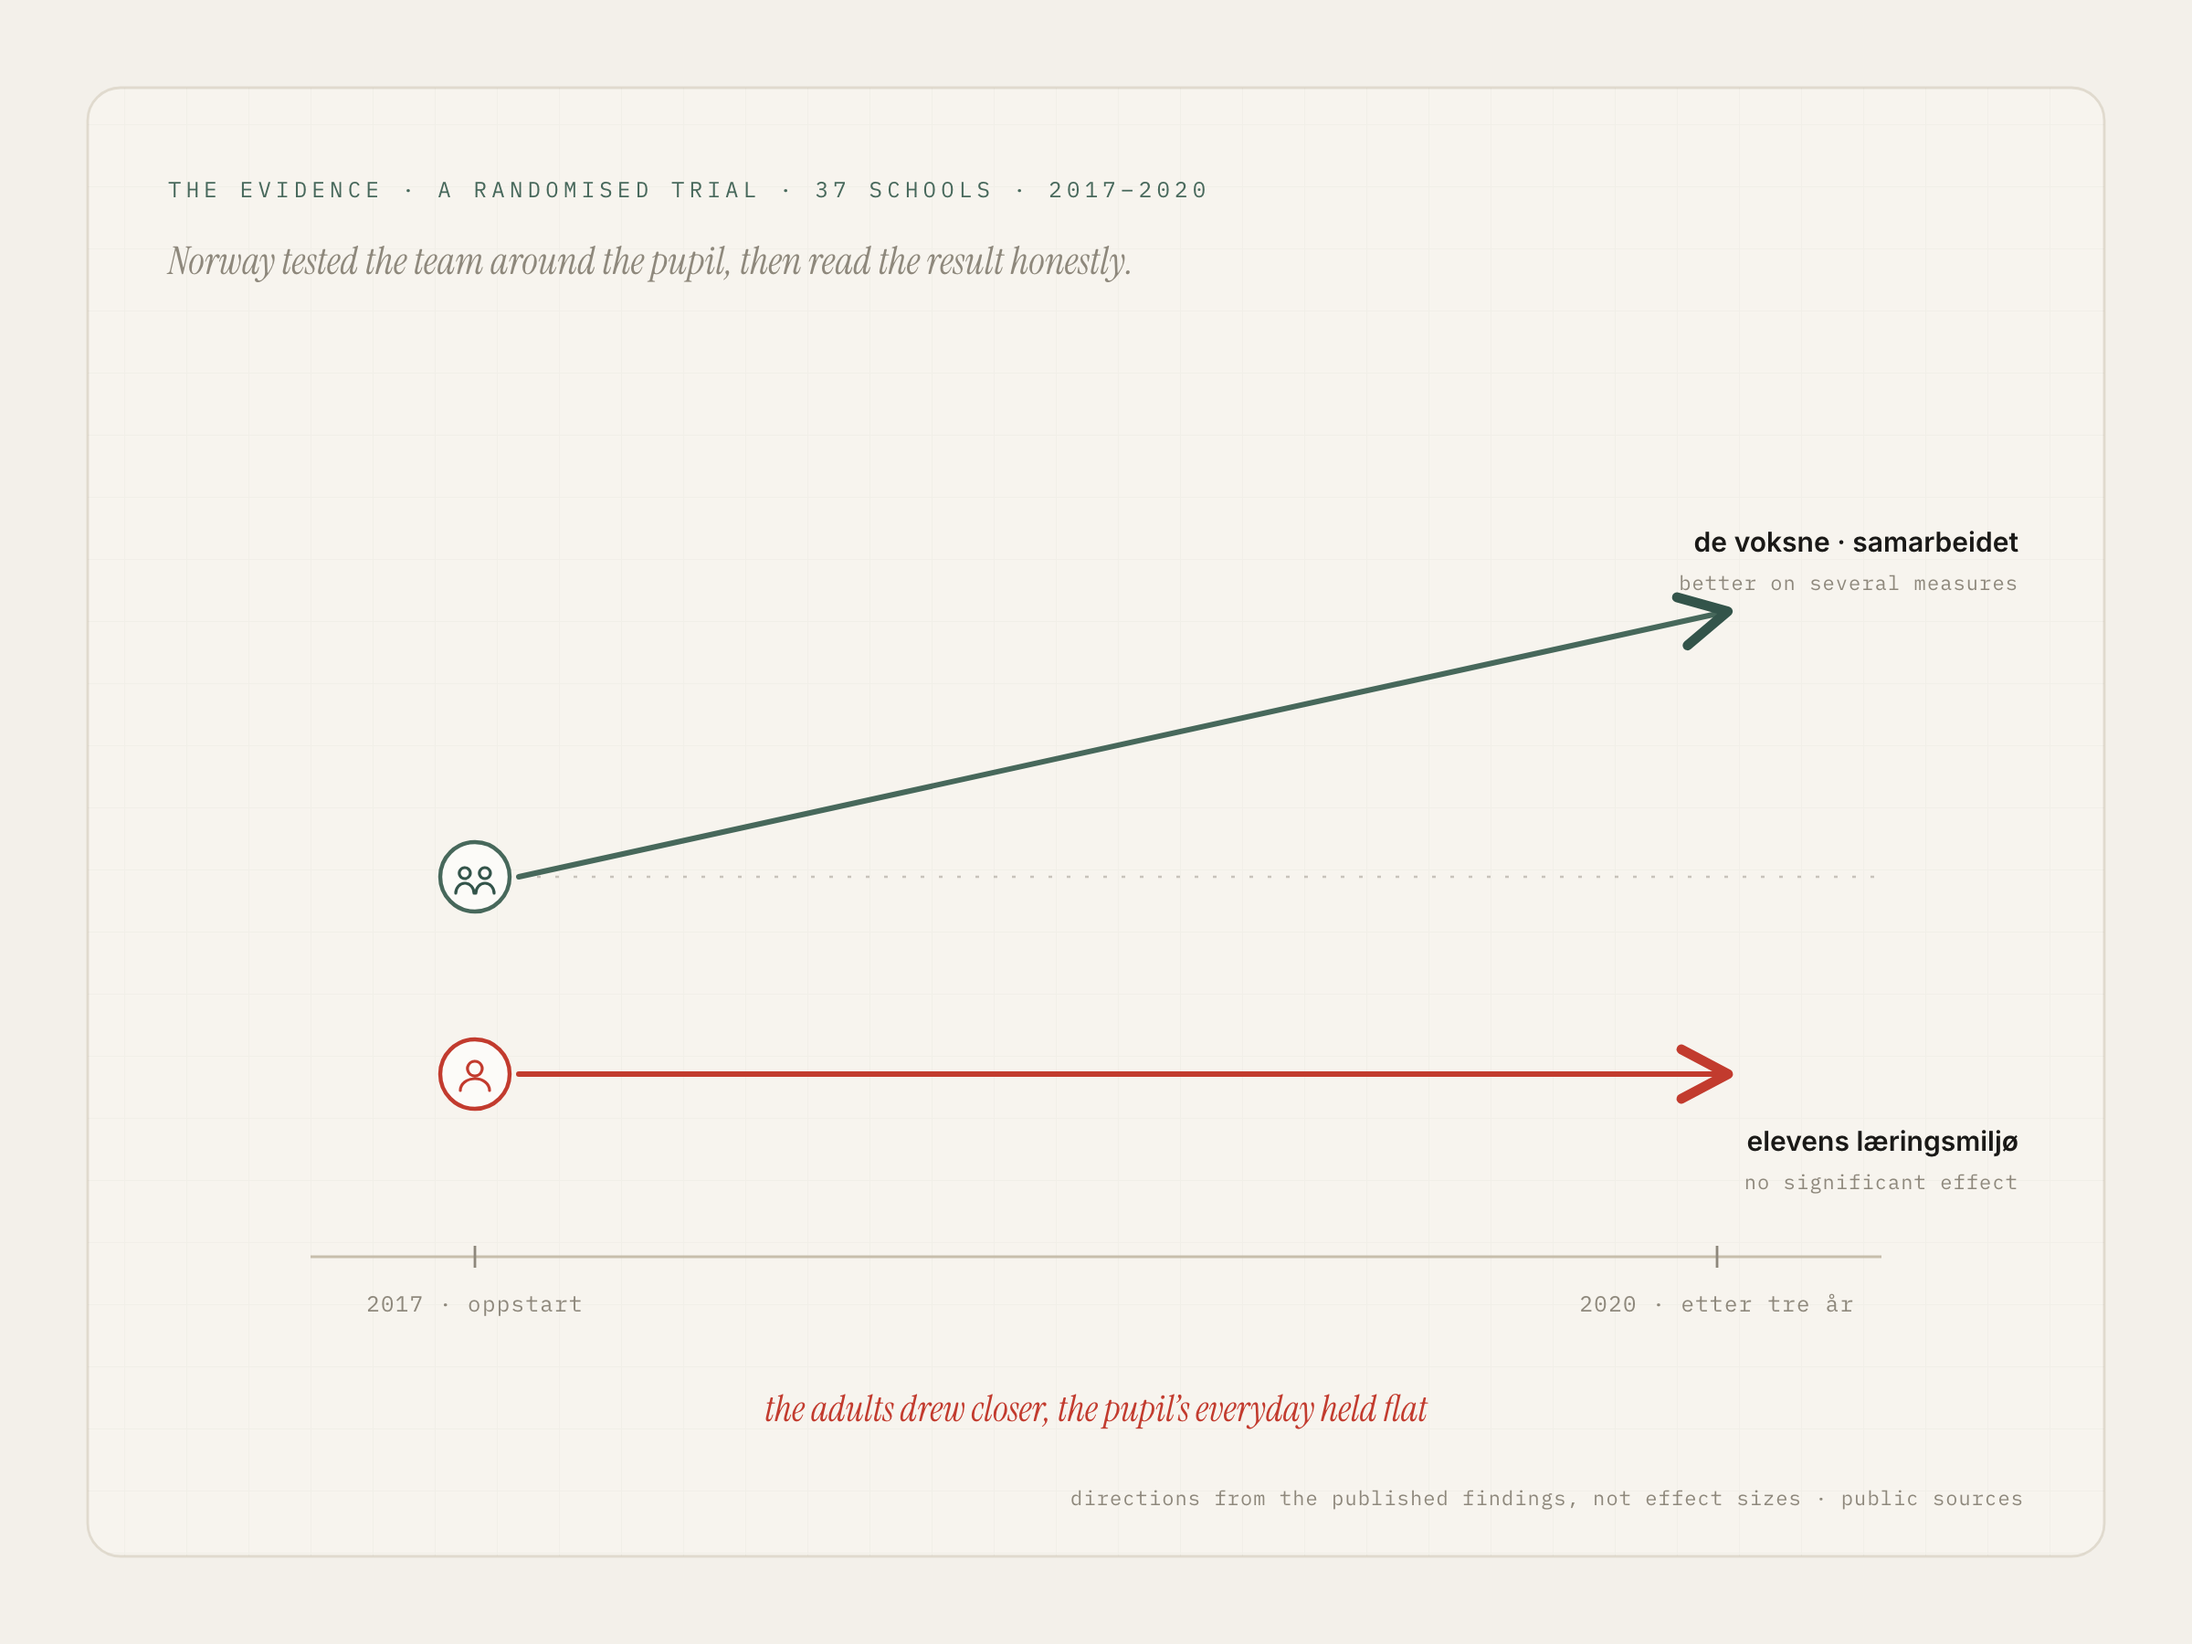
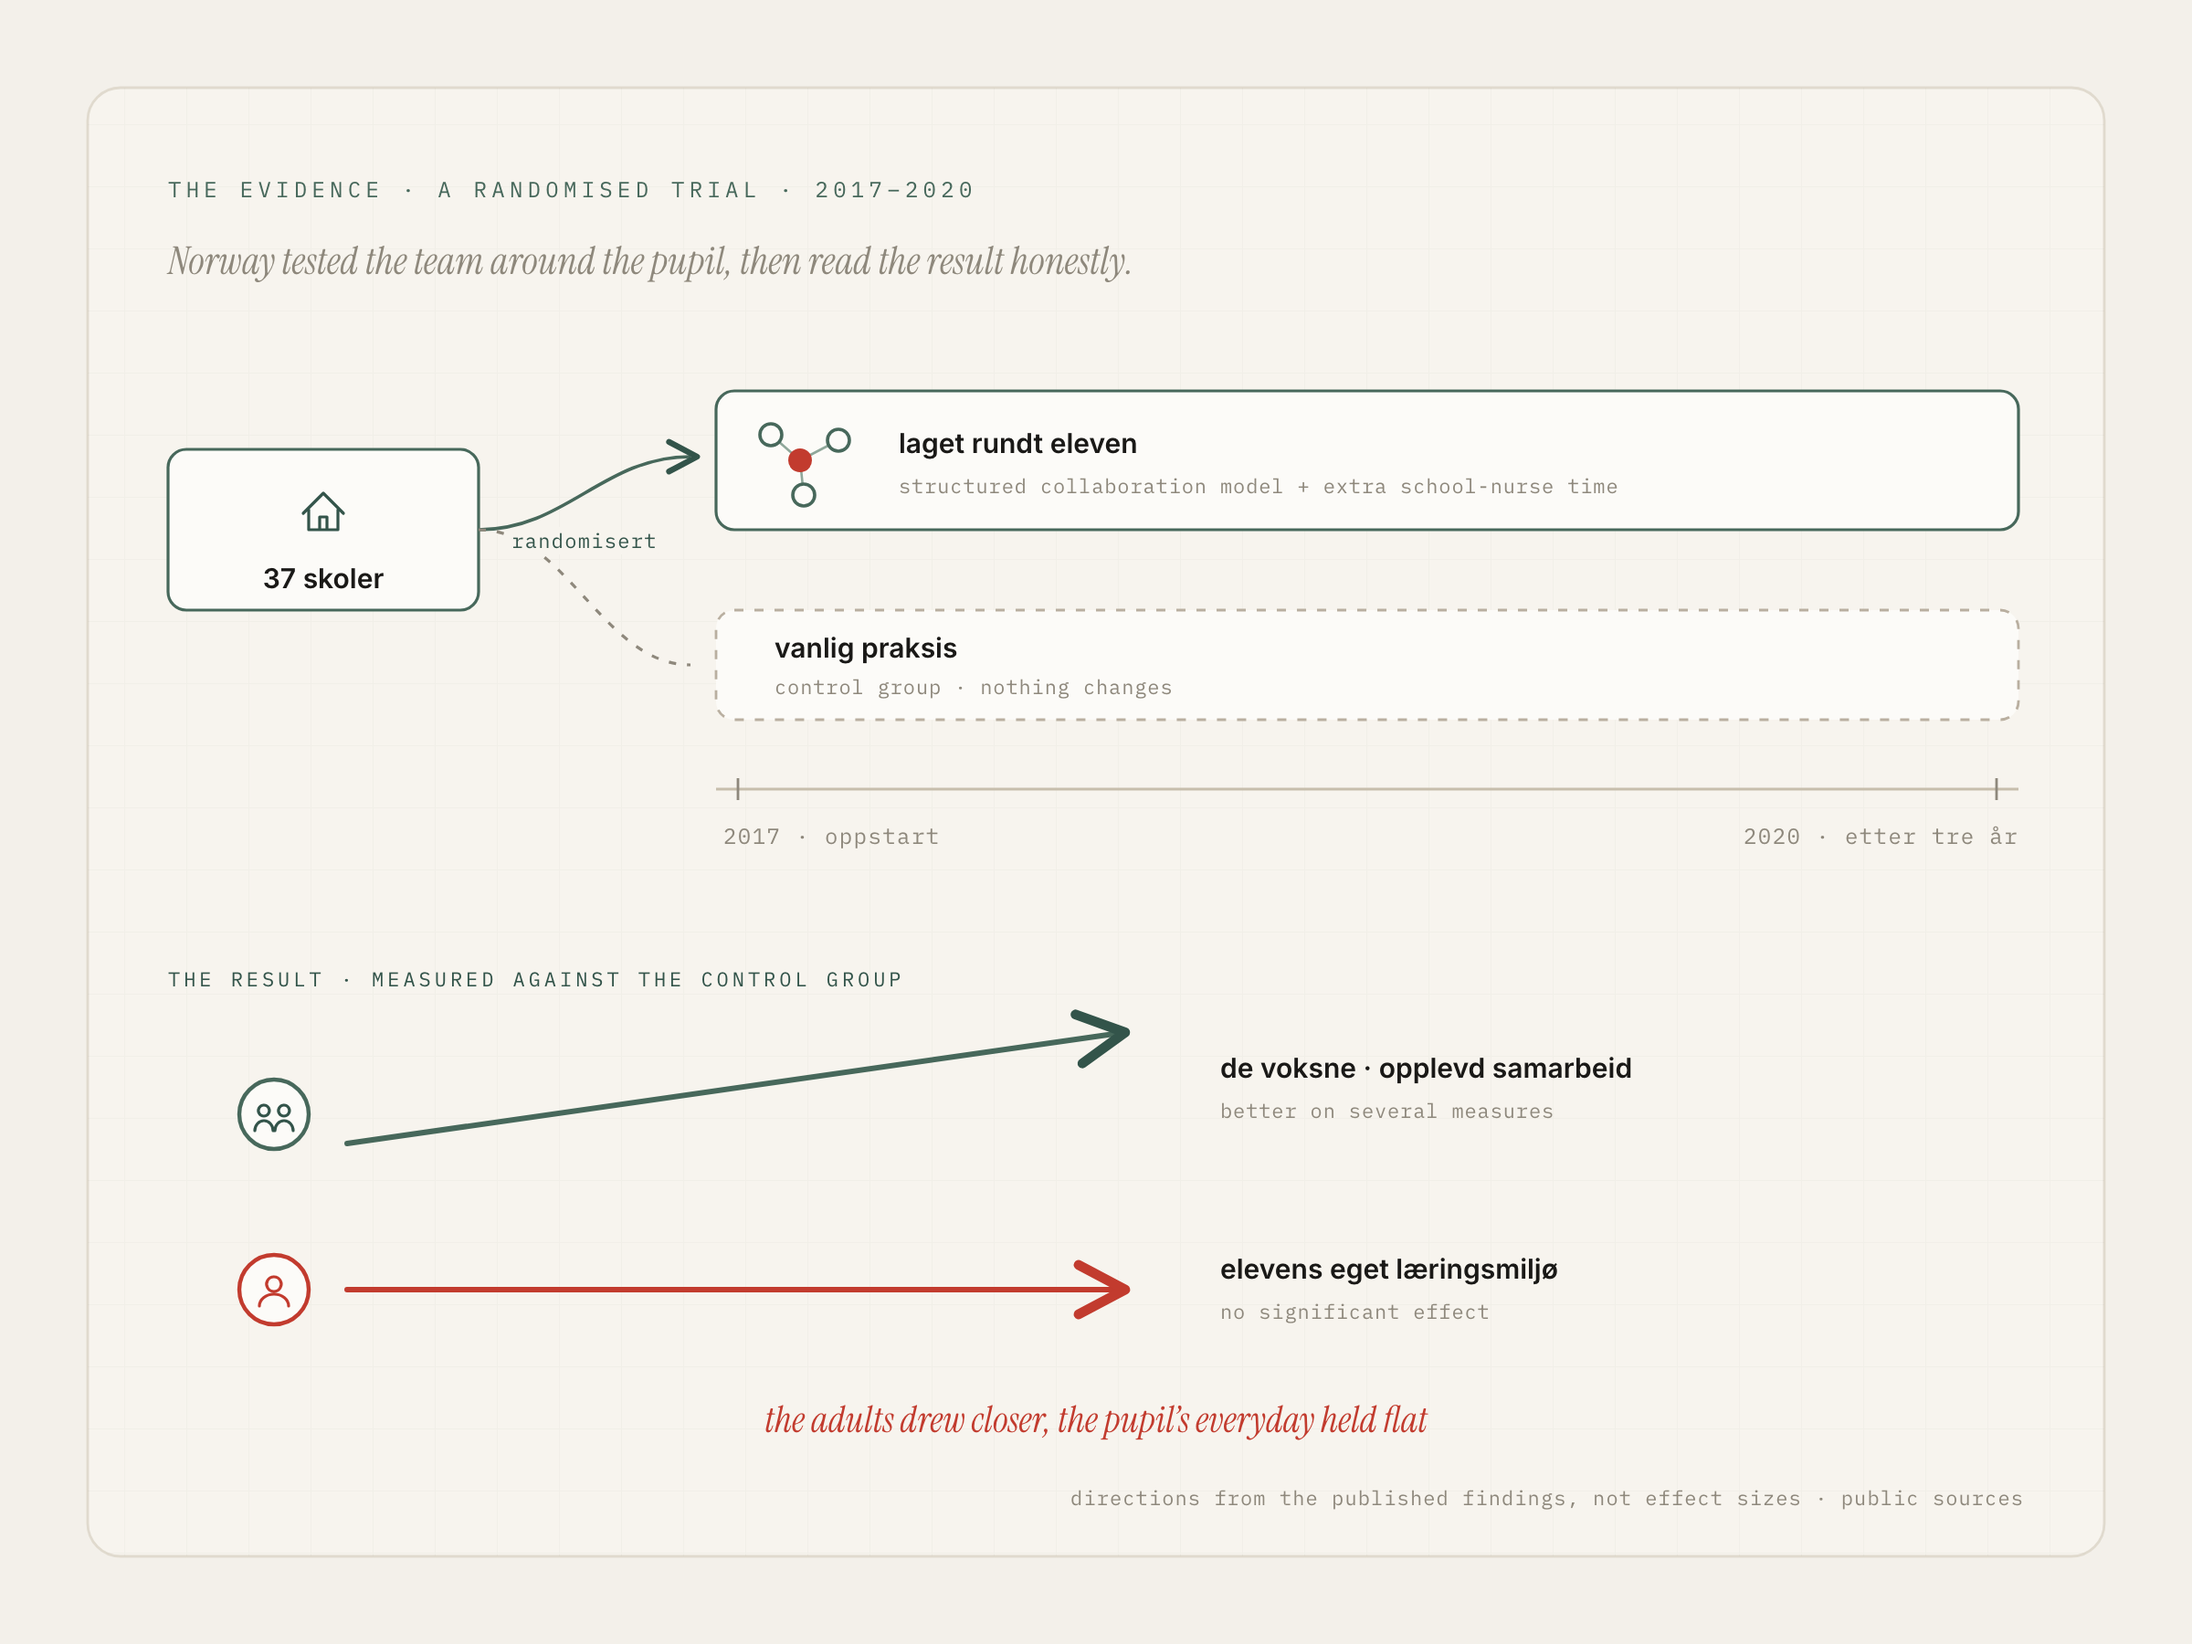
Red thread: evidence plate redrawn as the whole trial
Two bare arrows said nothing on their own. The plate now carries the
experiment's shape: 37 schools randomised between the team model and
usual practice, the three trial years, then the two directional
findings measured against control. Caption updated to match.
Still no invented numbers.

diff --git a/red-thread.html b/red-thread.html
@@ -605,8 +605,8 @@ const ASSETS = {
          no:'Stortinget i Oslo, der samarbeidsplikten fra 2022 ble vedtatt. Foto: Leonhard Lenz, Wikimedia Commons, CC0.'} },
 
   evidence:{ type:'img', src:'red-thread/assets/evidence.png',
-    cap:{en:'Two arrows from the same randomised trial: the adults’ sense of collaboration rising, the pupil’s own environment holding flat.',
-         no:'To piler fra samme randomiserte studie: de voksnes opplevelse av samarbeid stiger, elevens eget miljø holder seg flatt.'} },
+    cap:{en:'The trial drawn whole: 37 schools randomised between the team model and usual practice; three years later the adults’ sense of collaboration had risen, and the pupil’s own environment had not moved.',
+         no:'Studien tegnet hel: 37 skoler randomisert mellom lagmodellen og vanlig praksis; tre år senere hadde de voksnes opplevelse av samarbeid steget, og elevens eget miljø hadde ikke flyttet seg.'} },
 
   seams:{ type:'img', wide:true, src:'red-thread/assets/seams.png',
     cap:{en:'Three seams the country has not stitched: no caseload tool for the counsellor, continuity only for flagged pupils, and a school-to-health line the concept links rather than crosses.',
